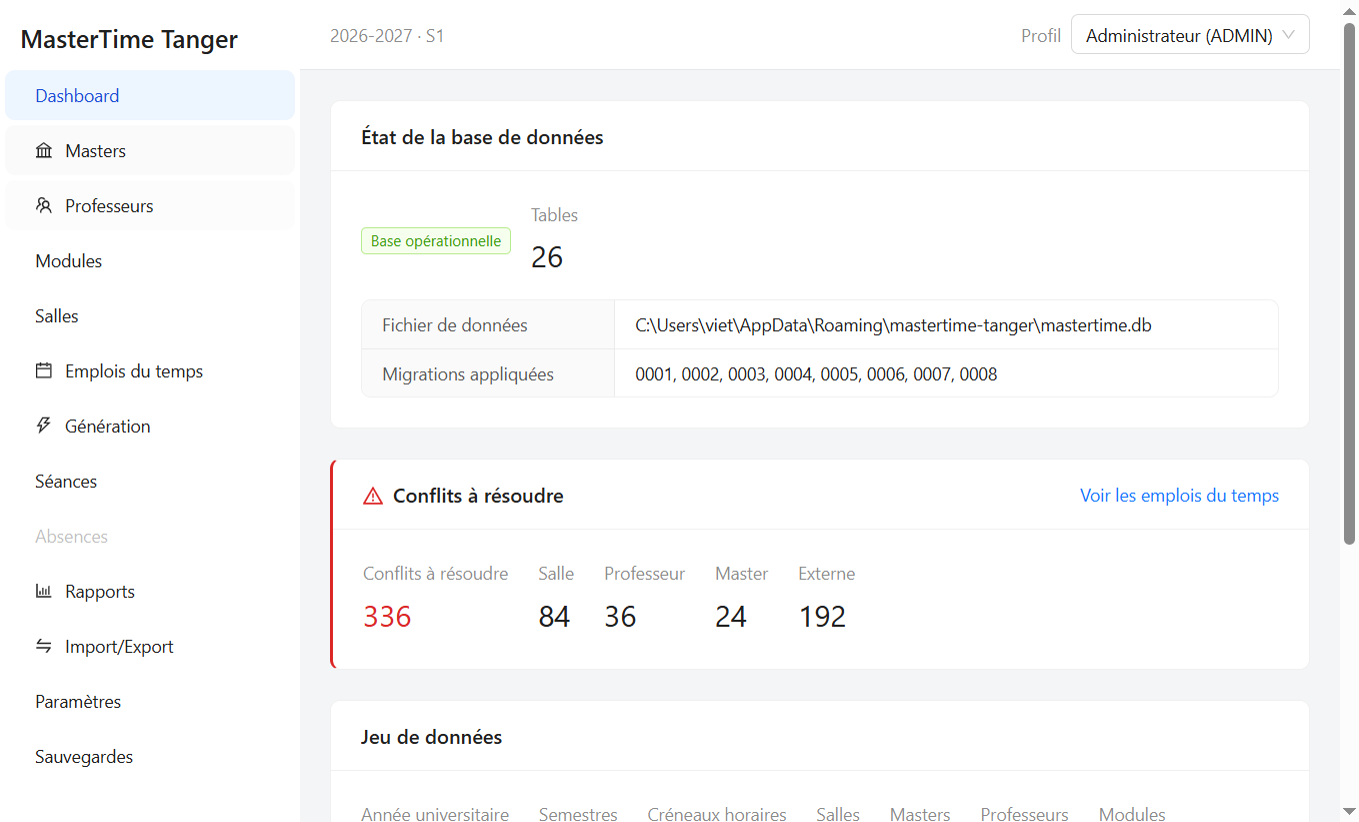
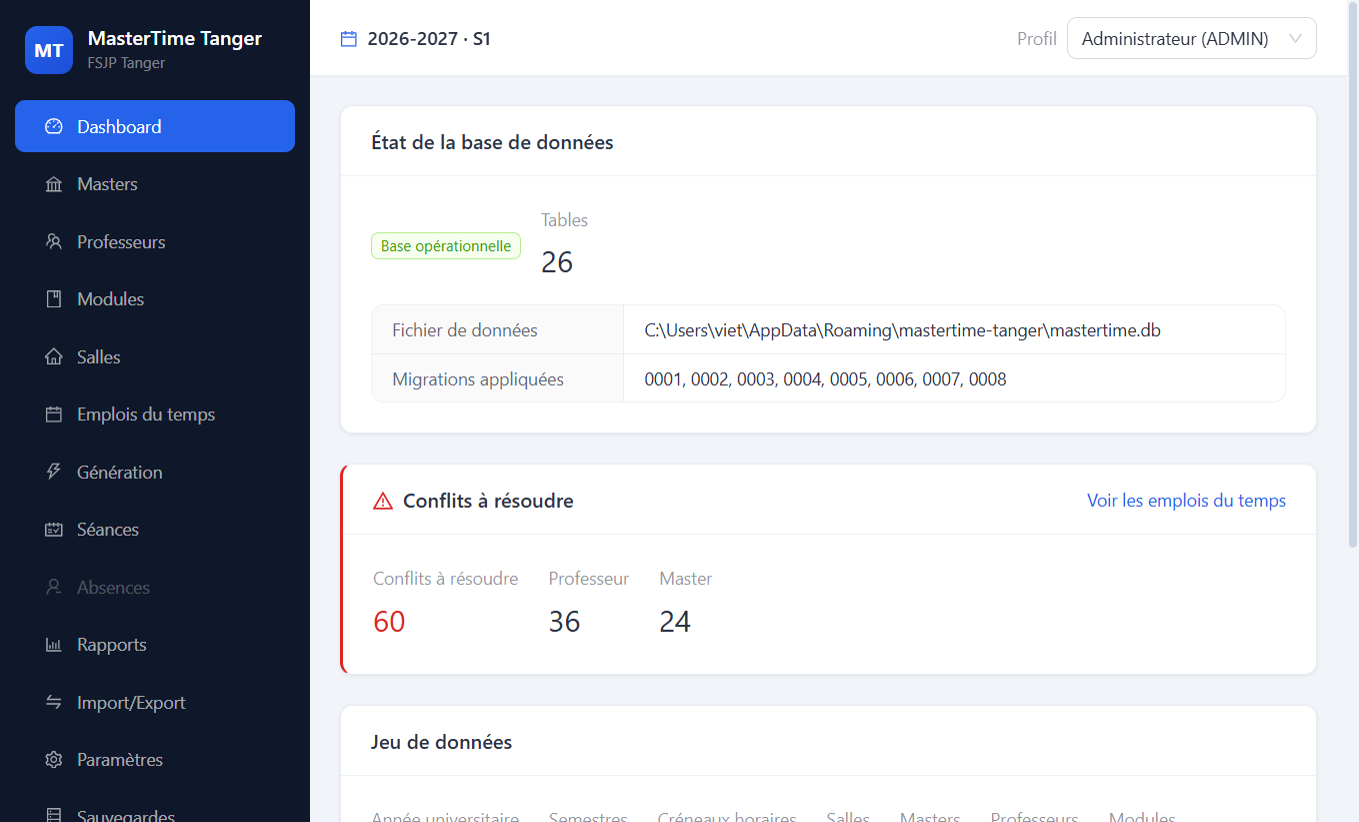
Refonte visuelle : sidebar sombre, identité MT, icônes complètes, cartes ombrées
Generated with [Devin](https://devin.ai)

diff --git a/src/components/AppShell.tsx b/src/components/AppShell.tsx
@@ -10,10 +10,17 @@ import { Alert, Layout, Menu, Select, Space, Tooltip, Typography, message } from
 import {
   BankOutlined,
   BarChartOutlined,
+  BookOutlined,
   CalendarOutlined,
+  DashboardOutlined,
+  DatabaseOutlined,
+  HomeOutlined,
+  ScheduleOutlined,
+  SettingOutlined,
   SwapOutlined,
   TeamOutlined,
   ThunderboltOutlined,
+  UserDeleteOutlined,
 } from '@ant-design/icons';
 import type { MenuProps } from 'antd';
 import { Outlet, useLocation, useNavigate } from 'react-router-dom';
@@ -40,7 +47,7 @@ interface NavEntry {
 /** Ordre exact du brief (DESIGN note) — actives : Dashboard, Masters,
  *  Modules, Professeurs, Salles. */
 const NAV: NavEntry[] = [
-  { key: 'dashboard', path: '/', enabled: true },
+  { key: 'dashboard', path: '/', enabled: true, icon: <DashboardOutlined /> },
   { key: 'masters', path: '/masters', enabled: true, icon: <BankOutlined /> },
   {
     key: 'professors',
@@ -48,8 +55,8 @@ const NAV: NavEntry[] = [
     enabled: true,
     icon: <TeamOutlined />,
   },
-  { key: 'modules', path: '/modules', enabled: true },
-  { key: 'rooms', path: '/salles', enabled: true },
+  { key: 'modules', path: '/modules', enabled: true, icon: <BookOutlined /> },
+  { key: 'rooms', path: '/salles', enabled: true, icon: <HomeOutlined /> },
   {
     key: 'schedule',
     path: '/emplois-du-temps',
@@ -62,8 +69,13 @@ const NAV: NavEntry[] = [
     enabled: true,
     icon: <ThunderboltOutlined />,
   },
-  { key: 'sessions', path: '/seances', enabled: true },
-  { key: 'absences', path: '/absences', enabled: false },
+  { key: 'sessions', path: '/seances', enabled: true, icon: <ScheduleOutlined /> },
+  {
+    key: 'absences',
+    path: '/absences',
+    enabled: false,
+    icon: <UserDeleteOutlined />,
+  },
   {
     key: 'reports',
     path: '/rapports',
@@ -76,8 +88,20 @@ const NAV: NavEntry[] = [
     enabled: true,
     icon: <SwapOutlined />,
   },
-  { key: 'settings', path: '/parametres', enabled: true, adminOnly: true },
-  { key: 'backups', path: '/sauvegardes', enabled: true, adminOnly: true },
+  {
+    key: 'settings',
+    path: '/parametres',
+    enabled: true,
+    adminOnly: true,
+    icon: <SettingOutlined />,
+  },
+  {
+    key: 'backups',
+    path: '/sauvegardes',
+    enabled: true,
+    adminOnly: true,
+    icon: <DatabaseOutlined />,
+  },
 ];
 
 export function AppShell(): React.JSX.Element {
@@ -168,45 +192,82 @@ export function AppShell(): React.JSX.Element {
 
   return (
     <Layout style={{ minHeight: '100vh' }}>
-      <Sider width={240} theme="light">
-        <div style={{ padding: '16px 16px 8px' }}>
-          <Title level={4} style={{ margin: 0 }}>
-            {t('app.title')}
-          </Title>
+      <Sider width={248} theme="dark" style={{ background: '#0F172A' }}>
+        <div
+          style={{
+            display: 'flex',
+            alignItems: 'center',
+            gap: 12,
+            padding: '20px 20px 16px',
+          }}
+        >
+          <div
+            style={{
+              width: 38,
+              height: 38,
+              borderRadius: 10,
+              background: 'linear-gradient(135deg, #2563EB 0%, #1D4ED8 100%)',
+              display: 'flex',
+              alignItems: 'center',
+              justifyContent: 'center',
+              color: '#fff',
+              fontWeight: 700,
+              fontSize: 15,
+              letterSpacing: '0.02em',
+              flexShrink: 0,
+            }}
+          >
+            MT
+          </div>
+          <div style={{ minWidth: 0 }}>
+            <Title level={5} style={{ margin: 0, color: '#fff', lineHeight: 1.2 }}>
+              {t('app.title')}
+            </Title>
+            <Text style={{ color: 'rgba(255,255,255,0.45)', fontSize: 12 }}>
+              FSJP Tanger
+            </Text>
+          </div>
         </div>
         <Menu
           mode="inline"
+          theme="dark"
           items={menuItems}
           selectedKeys={[selectedKey]}
           onClick={({ key }) => navigate(key)}
-          style={{ borderInlineEnd: 'none' }}
+          style={{ borderInlineEnd: 'none', padding: '0 12px' }}
         />
       </Sider>
       <Layout>
         <Header
           style={{
             background: '#fff',
-            height: 56,
-            lineHeight: '56px',
+            height: 60,
+            lineHeight: '60px',
             padding: '0 24px',
-            borderBottom: '1px solid #E5E7EB',
+            boxShadow: '0 1px 2px rgba(15,23,42,0.06)',
             display: 'flex',
             alignItems: 'center',
             justifyContent: 'space-between',
+            position: 'sticky',
+            top: 0,
+            zIndex: 10,
           }}
         >
-          <Text type="secondary">
-            {context?.academicYear
-              ? t('topbar.context', {
-                  year: context.academicYear,
-                  semester: context.semester ?? '—',
-                })
-              : t('topbar.contextEmpty')}
-          </Text>
-          <Space>
+          <Space size={8}>
+            <CalendarOutlined style={{ color: '#2563EB' }} />
+            <Text strong style={{ fontSize: 15 }}>
+              {context?.academicYear
+                ? t('topbar.context', {
+                    year: context.academicYear,
+                    semester: context.semester ?? '—',
+                  })
+                : t('topbar.contextEmpty')}
+            </Text>
+          </Space>
+          <Space size={8}>
             <Text type="secondary">{t('topbar.profile')}</Text>
             <Select
-              style={{ minWidth: 180 }}
+              style={{ minWidth: 200 }}
               value={currentProfile?.id}
               options={profiles.map((p) => ({
                 value: p.id,
@@ -230,7 +291,7 @@ export function AppShell(): React.JSX.Element {
         {hasDemo && (
           <Alert type="warning" showIcon message={t('demo.banner')} />
         )}
-        <Content style={{ padding: 24, background: '#F4F5F7' }}>
+        <Content style={{ padding: 24, background: '#F1F5F9' }}>
           <Outlet />
         </Content>
       </Layout>

diff --git a/src/styles.css b/src/styles.css
@@ -1,8 +1,42 @@
-/* Styles globaux — P6a. */
+/* Styles globaux — design system MasterTime. */
 
 body {
   margin: 0;
-  background: #f4f5f7;
+  background: #f1f5f9;
+  -webkit-font-smoothing: antialiased;
+}
+
+/* Titres de pages — hiérarchie nette. */
+h1.ant-typography,
+h2.ant-typography,
+h3.ant-typography {
+  font-weight: 600;
+  letter-spacing: -0.01em;
+  color: #0f172a;
+}
+
+/* Cartes — ombre douce, bordure discrète (aspect « panneau » pro). */
+.ant-card {
+  border: 1px solid #e8ecf1;
+  box-shadow:
+    0 1px 2px rgba(15, 23, 42, 0.04),
+    0 1px 3px rgba(15, 23, 42, 0.05);
+}
+
+.ant-card .ant-card-head {
+  border-bottom-color: #eef1f5;
+  font-weight: 600;
+}
+
+/* Tableaux — en-têtes marqués, lignes aérées. */
+.ant-table-thead > tr > th {
+  font-weight: 600;
+}
+
+/* Menu latéral sombre — arrondis sur toute la ligne. */
+.ant-menu-dark .ant-menu-item {
+  margin-inline: 0;
+  width: 100%;
 }
 
 /* Ligne de référentiel désactivée (is_active = 0) — grisée, toujours lisible. */
@@ -11,7 +45,34 @@ body {
   background: #fafafa;
 }
 
-/* Bloc séance de la grille hebdo (P7a) — hover subtil, pas d'ombre (DESIGN). */
+/* Bloc séance de la grille hebdo — léger relief + hover (DESIGN). */
+.tt-block {
+  box-shadow: 0 1px 2px rgba(15, 23, 42, 0.08);
+  transition:
+    box-shadow 0.15s ease,
+    filter 0.15s ease;
+}
 .tt-block:hover {
-  filter: brightness(0.96);
+  filter: brightness(0.98);
+  box-shadow: 0 3px 8px rgba(15, 23, 42, 0.18);
+}
+
+/* Barres de défilement discrètes. */
+::-webkit-scrollbar {
+  width: 10px;
+  height: 10px;
+}
+::-webkit-scrollbar-track {
+  background: transparent;
+}
+::-webkit-scrollbar-thumb {
+  background: #cbd5e1;
+  border-radius: 8px;
+  border: 2px solid transparent;
+  background-clip: content-box;
+}
+::-webkit-scrollbar-thumb:hover {
+  background: #94a3b8;
+  border: 2px solid transparent;
+  background-clip: content-box;
 }

diff --git a/src/main.tsx b/src/main.tsx
@@ -18,9 +18,37 @@ ReactDOM.createRoot(document.getElementById('root')!).render(
       locale={frFR}
       theme={{
         token: {
-          colorPrimary: '#1D4ED8',
-          borderRadius: 6,
-          fontFamily: 'Segoe UI, system-ui, sans-serif',
+          colorPrimary: '#2563EB',
+          colorInfo: '#2563EB',
+          borderRadius: 8,
+          controlHeight: 34,
+          colorTextBase: '#0F172A',
+          colorBgLayout: '#F1F5F9',
+          fontFamily: "'Segoe UI', system-ui, -apple-system, sans-serif",
+        },
+        components: {
+          Layout: {
+            siderBg: '#0F172A',
+            headerBg: '#FFFFFF',
+            headerHeight: 60,
+            headerPadding: '0 24px',
+          },
+          Menu: {
+            darkItemBg: 'transparent',
+            darkSubMenuItemBg: 'transparent',
+            darkItemColor: 'rgba(255,255,255,0.62)',
+            darkItemHoverColor: '#FFFFFF',
+            darkItemHoverBg: 'rgba(255,255,255,0.08)',
+            darkItemSelectedBg: '#2563EB',
+            darkItemSelectedColor: '#FFFFFF',
+            itemBorderRadius: 8,
+            itemHeight: 42,
+            itemMarginBlock: 4,
+          },
+          Table: {
+            headerBg: '#F8FAFC',
+            headerColor: '#475569',
+          },
         },
       }}
     >
